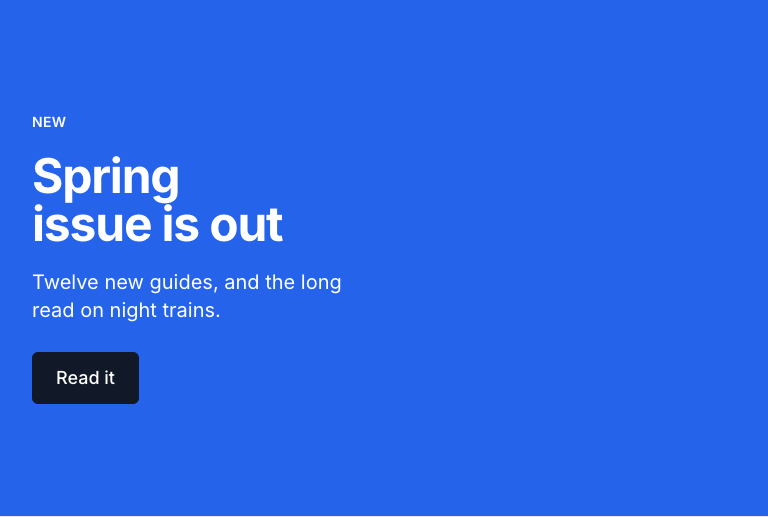
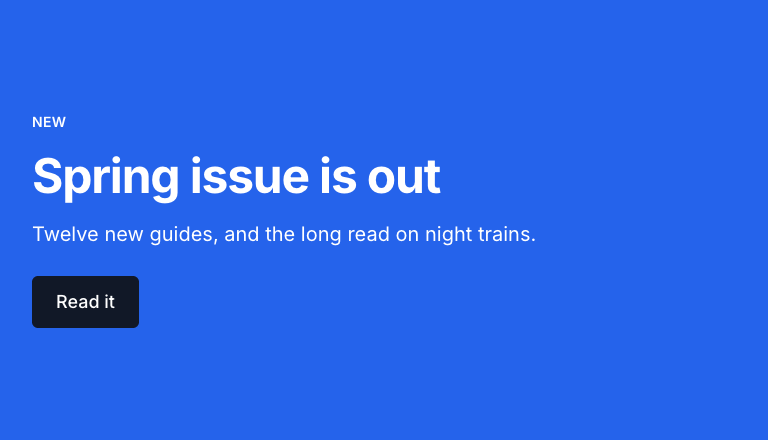
feat(astro-kit): layout and size knobs for rebuilt sections (#332)
Additive variants for sections a rebuilt page could not match; every
default renders unchanged:

- Hero leadAlign (inherit|start): start-aligned lead under a centred heading
- FeatureList style list: one-column icon list at body size, titles as text
- Cta layout stacked (left column) and tone none; Section tone none
- Testimonial quoteSize (auto|base|lg|xl)
- Faq questionStyle (heading|bold)
- Stats labelSize (sm|base|lg)
- Team roleStyle (accent|plain)

A split hero without an image now spans the whole row instead of half.

Catalog regenerated; fixtures cover every new option. Kit tests 219/219,
astro check 0/0/0, visual: 30 new baselines, only hero accent-768 and
inverse-text-only-768 changed (the imageless split fix).

Changed region(s): [[0.0312, 0.2063, 0.5938, 0.4717], [0.0312, 0.5011, 0.6875, 0.5601], [0.0312, 0.5896, 0.2812, 0.7959]]

diff --git a/.changeset/kit-layout-knobs.md b/.changeset/kit-layout-knobs.md
@@ -1,0 +1,15 @@
+---
+'@contentrain/astro-kit': minor
+---
+
+New layout and size variants for the sections a rebuilt page could not match. All of them are additive, and every default renders as before:
+
+- Hero `leadAlign: start` keeps the lead at the start edge under a centred heading.
+- FeatureList `style: list` is a one-column icon list at the body size, with titles as text.
+- Cta `layout: stacked` puts heading, text and buttons in one left-aligned column. Cta `tone: none` has no fill, and Section takes `tone: none` too.
+- Testimonial `quoteSize` (`base`, `lg`, `xl`) sets the quote size.
+- Faq `questionStyle: bold` sets the questions at the body size in bold.
+- Stats `labelSize` (`base`, `lg`) sets the figure labels.
+- Team `roleStyle: plain` shows the role as body-size text in the text colour.
+
+A split hero without an image now spans the whole row instead of half of it.
